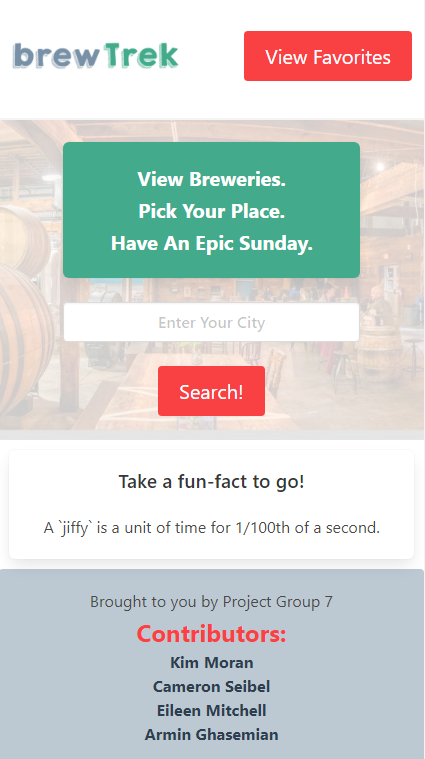
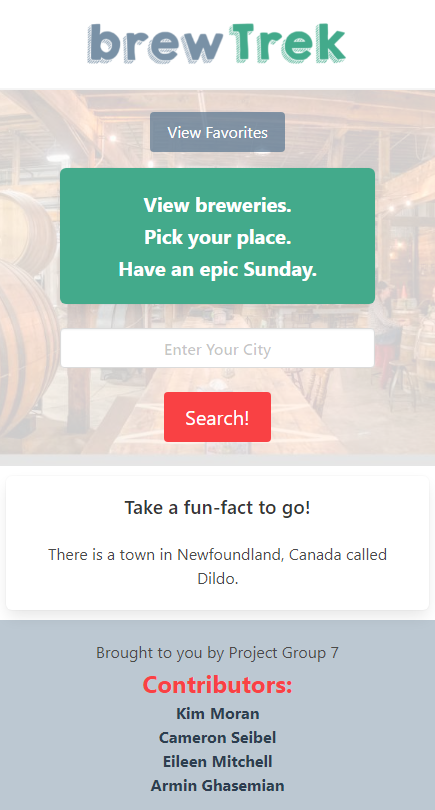
URL word wrap and mobile friendly address updates

diff --git a/brewery.html b/brewery.html
@@ -48,13 +48,13 @@
             <h2 id="brewery-name" class="title">Brewery Name</h2>
             <a id="lmgtfy">
                 <p id="address">Address</p>
-                <p id="cityStateZip"></p>
+                <p id="cityStateZip"  class="p-3"></p>
             </a>
             <button class="button is-warning" id="favourite">Add to Favorites</button>
         </div>
         <ul class="box container columns m-0">
             <li class="column"><a href="#" id="phone" type="tel">Phone Number<br>###-##-####</a></li>
-            <li class="column"><a href="#" id="url">Web Page</a></li>
+            <li class="column text-wrap"><a href="#" id="url">Web Page</a></li>
         </ul>
     </main>
  <!------------------MODAL/FAVORITES LIST DATA------------------------------>

diff --git a/assets/js/breweries.js b/assets/js/breweries.js
@@ -26,7 +26,7 @@ function writeResult(data){
 <div class="tile is parent">
 	<article class="tile is-child box">
 		<a href="./brewery.html?q=${data.id}"><p class="title">${data.name}</p></a>
-		<a href="https://www.google.com/maps/place/${data.street}+${data.city}+${data.state}+${data.postal_code}"><p class="subtitle">${data.street}</p></a>
+		<a href="https://www.google.com/maps/place/${data.street}+${data.city}+${data.state}+${data.postal_code}"><p class="subtitle p-3">${data.street}</p></a>
 		<button class="button is-warning" onclick=setFavorite(event) data-name="${data.name}" data-id="${data.id}">Add to Favorites</button>
 	</article>
 </div>`

diff --git a/assets/css/style.css b/assets/css/style.css
@@ -117,7 +117,7 @@ a.firstChild{
 .navbar-item img{
         width: auto;
         height: auto;
-        max-width: 40vw;
+        max-width: 60vw;
         max-height: 100vw;
     }
 
@@ -133,7 +133,7 @@ a.firstChild{
     flex-direction:column;
     align-items:center;
     justify-content:center;
-    height:10vh;
+    height:15vw;
 }
 
 .button.is-primary{
@@ -300,6 +300,11 @@ a.firstChild{
  .button.button.is-warning:hover{
     background-color:#d1b25c;
     transition:300ms 300ms;
+}
+
+#url{
+    word-wrap:break-word;
+    height: auto;
 }
 
 /*---------------------------------------------------------------------------*/
